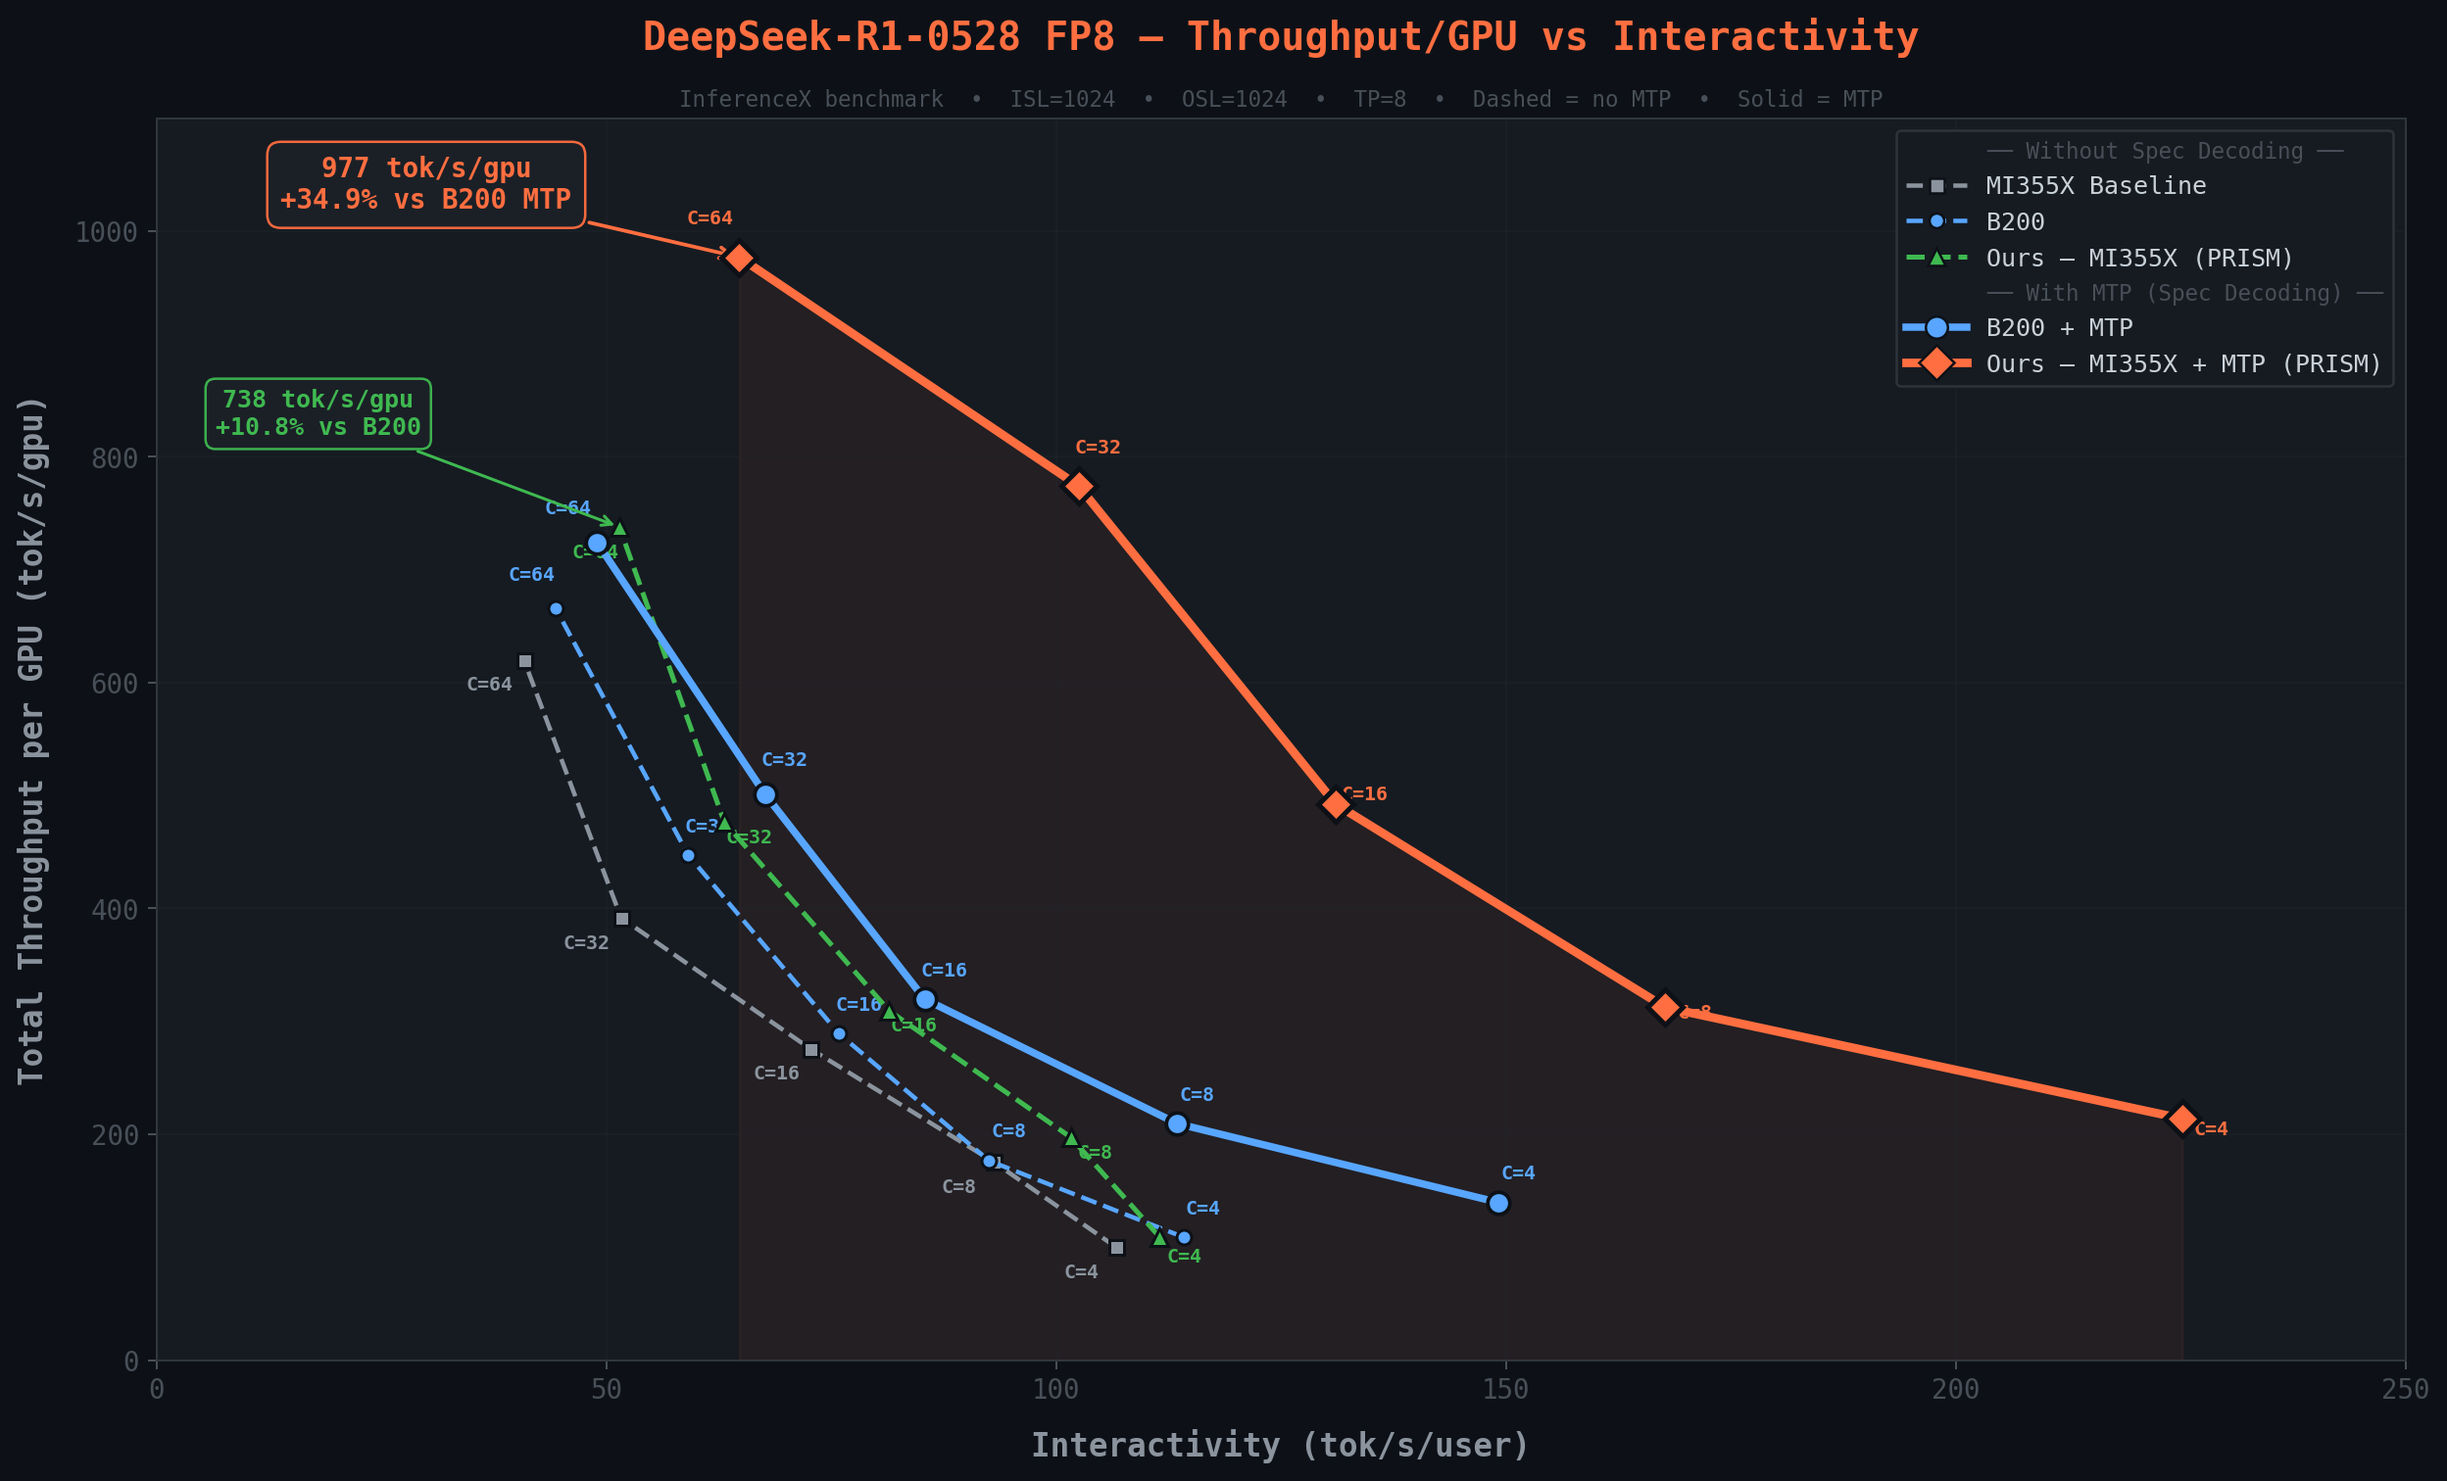
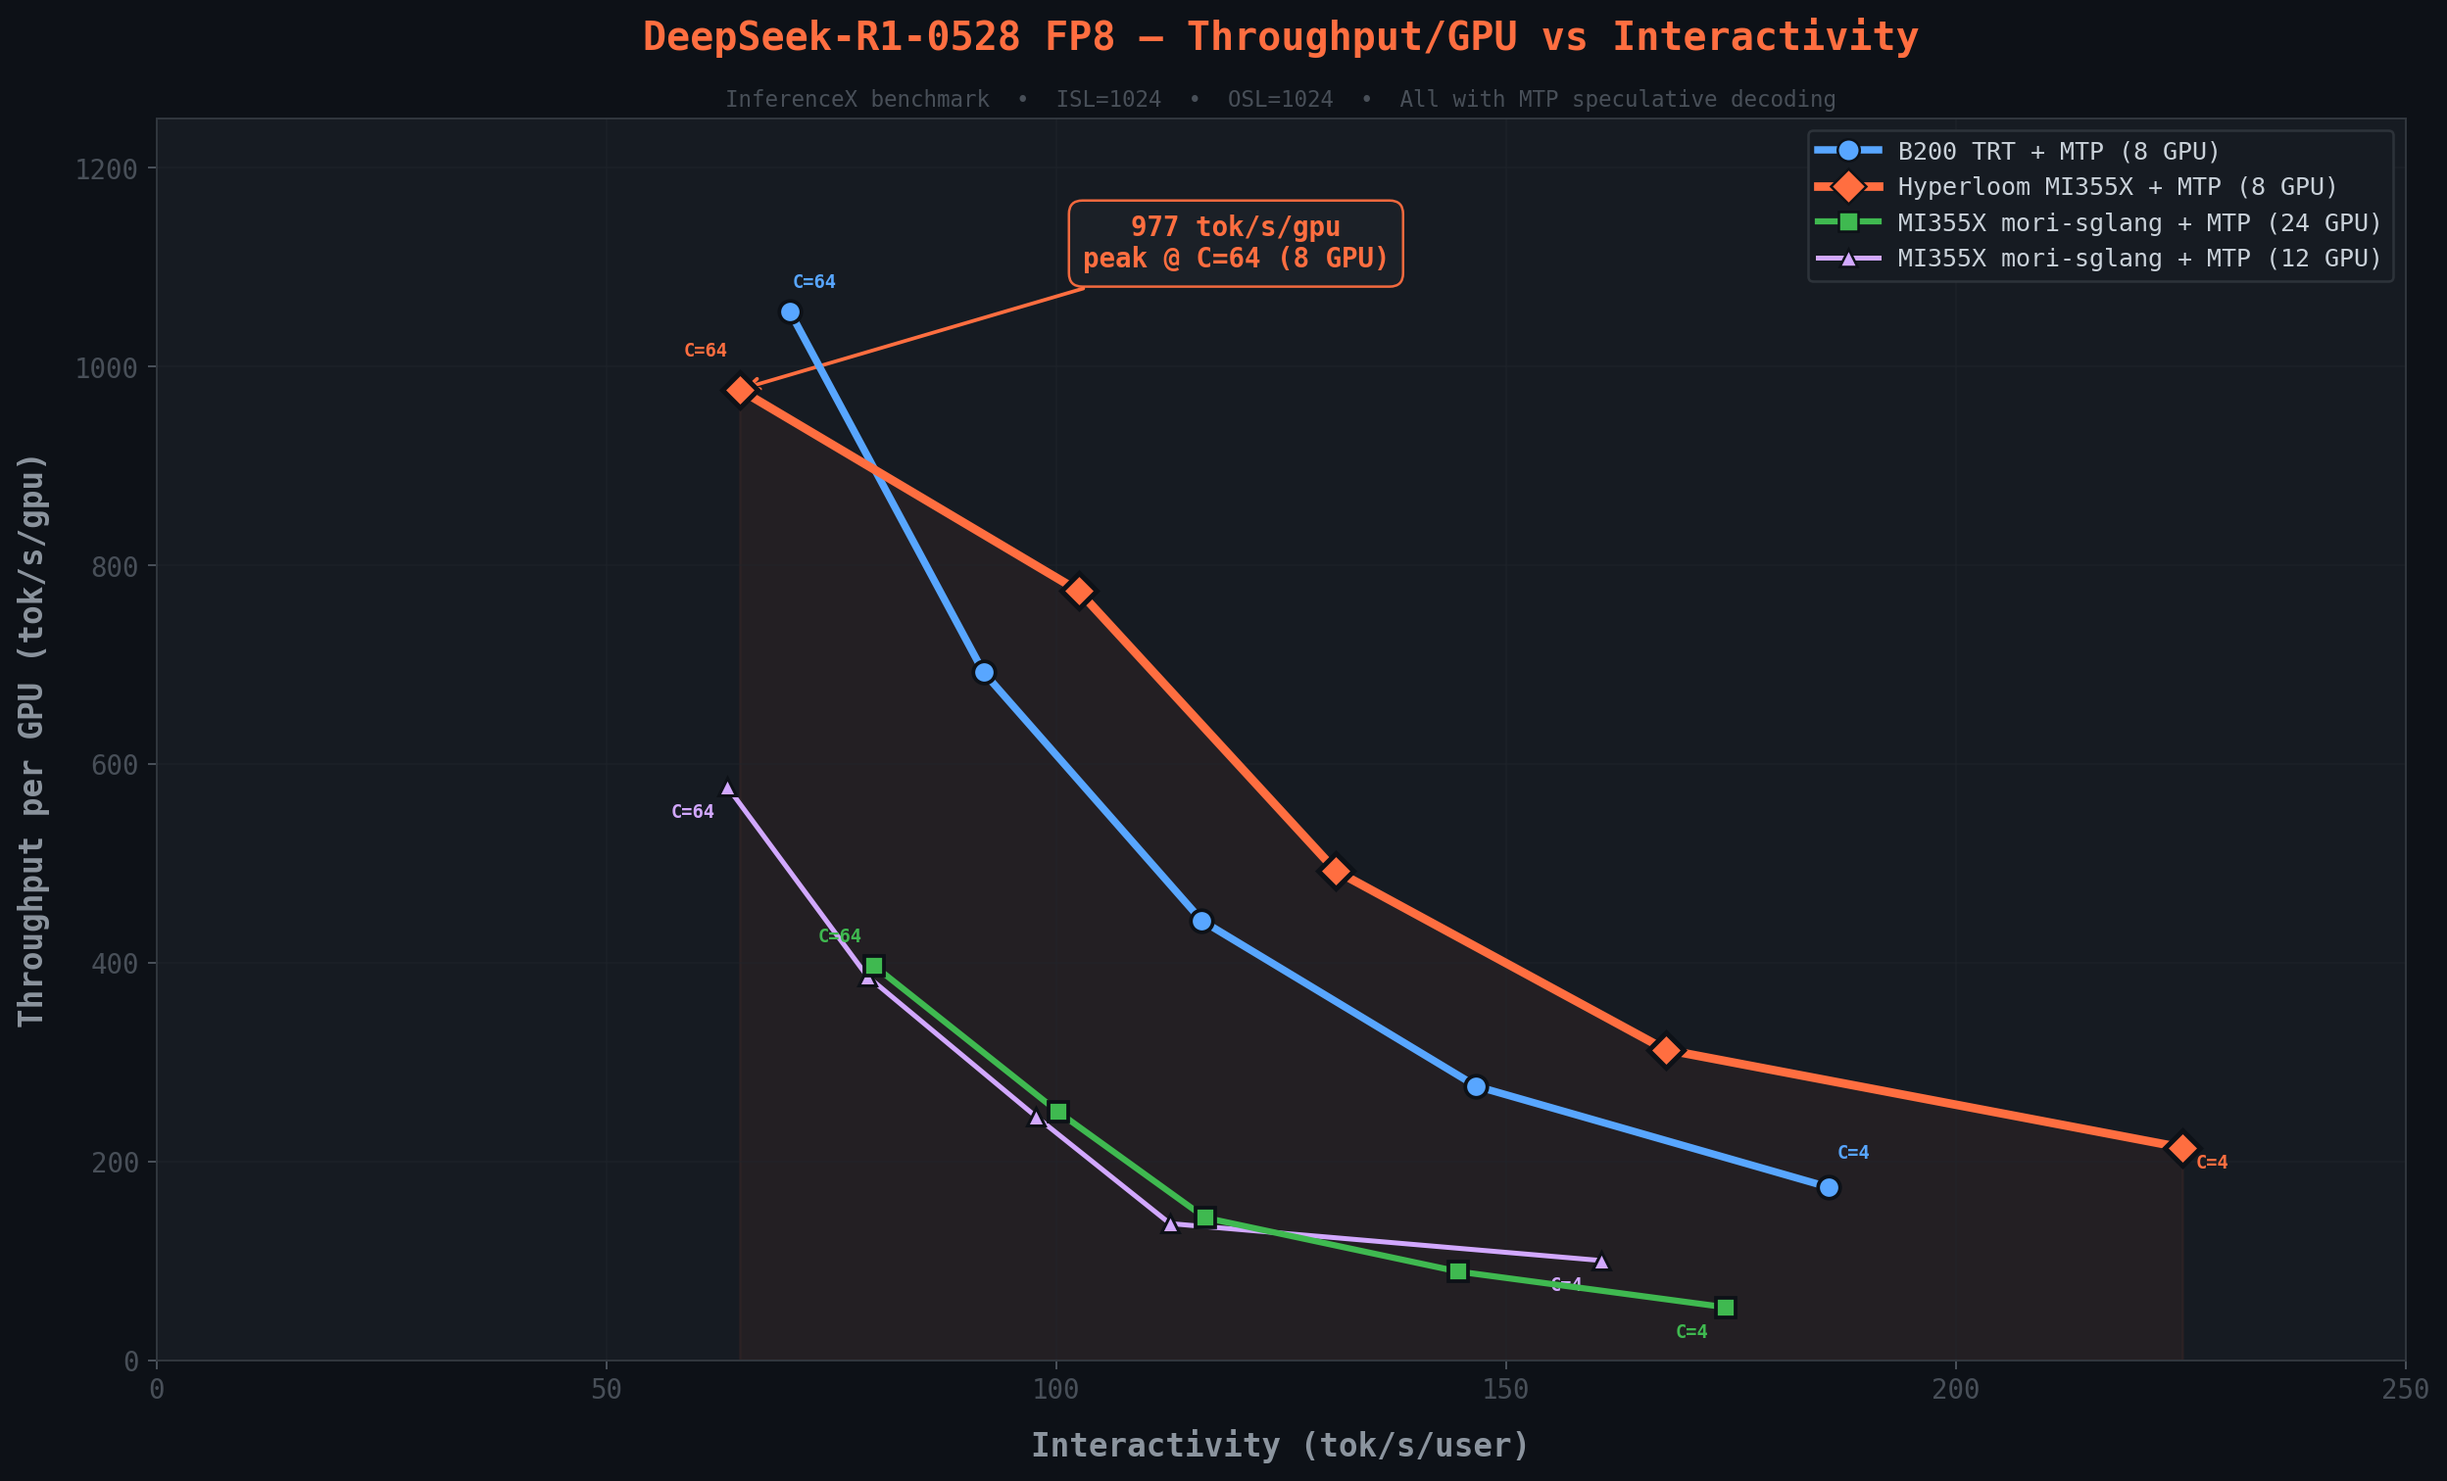
readme

diff --git a/README.md b/README.md
@@ -11,7 +11,13 @@ Block 4 - Code Optimization Loop: The core of Hyperloom. The agent builds a scor
 
 Block 7-8 - Validated Delivery: The agent optimizes for throughput while maintaining accuracy — every change is correctness-gated before acceptance. Once the loop exits, the agent packages the optimized code, submits a PR to your repo, and merges into your codebase, completing the full loop.
 
+### Learn More
 
+| | |
+|---|---|
+| **[How the Optimization Loop Works](docs/HOW_THE_OPTIMIZATION_LOOP_WORKS.md)** | Scoring heuristics, stack mechanics, dynamic branching, and the self-evolving knowledge base |
+| **[GLM-5 — Discovering Optimizations Hard to Spot Manually](docs/CASE_STUDY_GLM5.md)** | Hidden GEMM configs, cross-repo kernel patches, +193% throughput |
+| **[DeepSeek-R1 — Fast Scale-Up on a New Workload](docs/CASE_STUDY_DEEPSEEK_R1.md)** | 7 configs to optimal in one session, MTP scheduling fix, +97% over B200 |
 
 ---
 
@@ -79,8 +85,6 @@ Config: examples/megatron/configs/MI355X/gpt_oss_20B-BF16-pretrain.yaml
 
 The agent takes it from there — baseline, profile, loop, report.
 
-**New to Hyperloom?** See the **[Inference Quick Start Guide](QUICKSTART_INFERENCE.md)** — a complete walkthrough of how we optimized gpt-oss-120b to beat the B200 by 34%, with step-by-step instructions for running the skill on your own model. For a deeper look at how the optimization loop works — scoring, stack mechanics, dynamic branching — see **[How the Optimization Loop Works](docs/HOW_THE_OPTIMIZATION_LOOP_WORKS.md)**.
-
 ---
 
 ## Key Results
@@ -97,7 +101,7 @@ PRISM optimized 4 flagship models for the [InferenceX](https://github.com/SemiAn
 | MiniMax-M2.5 (MoE 256E) | **2,276** | **+6.5%** | **+5.7% ahead** |
 | gpt-oss-120b (120B MoE, mxfp4) | **11,643** | — | **+34% ahead** |
 
-All benchmarks: ISL=1024, OSL=1024 on MI355X (gfx950). "vs B200" shows best concurrency point. Full concurrency/ISL/OSL sweeps, patches, configs, and reproduction scripts: **[Agentic-InferenceX](https://github.com/AMD-AGI/Agentic-InferenceX)**. For deep dives into how the agent found these optimizations, see the case studies: **[GLM-5](docs/CASE_STUDY_GLM5.md)** (cross-repo GEMM discovery + kernel patches) and **[DeepSeek-R1](docs/CASE_STUDY_DEEPSEEK_R1.md)** (fast config-space exploration + MTP scheduling fix).
+All benchmarks: ISL=1024, OSL=1024 on MI355X (gfx950). "vs B200" shows best concurrency point. Full concurrency/ISL/OSL sweeps, patches, configs, and reproduction scripts: **[Agentic-InferenceX](https://github.com/AMD-AGI/Agentic-InferenceX)**.
 
 ### Training Optimization
 
